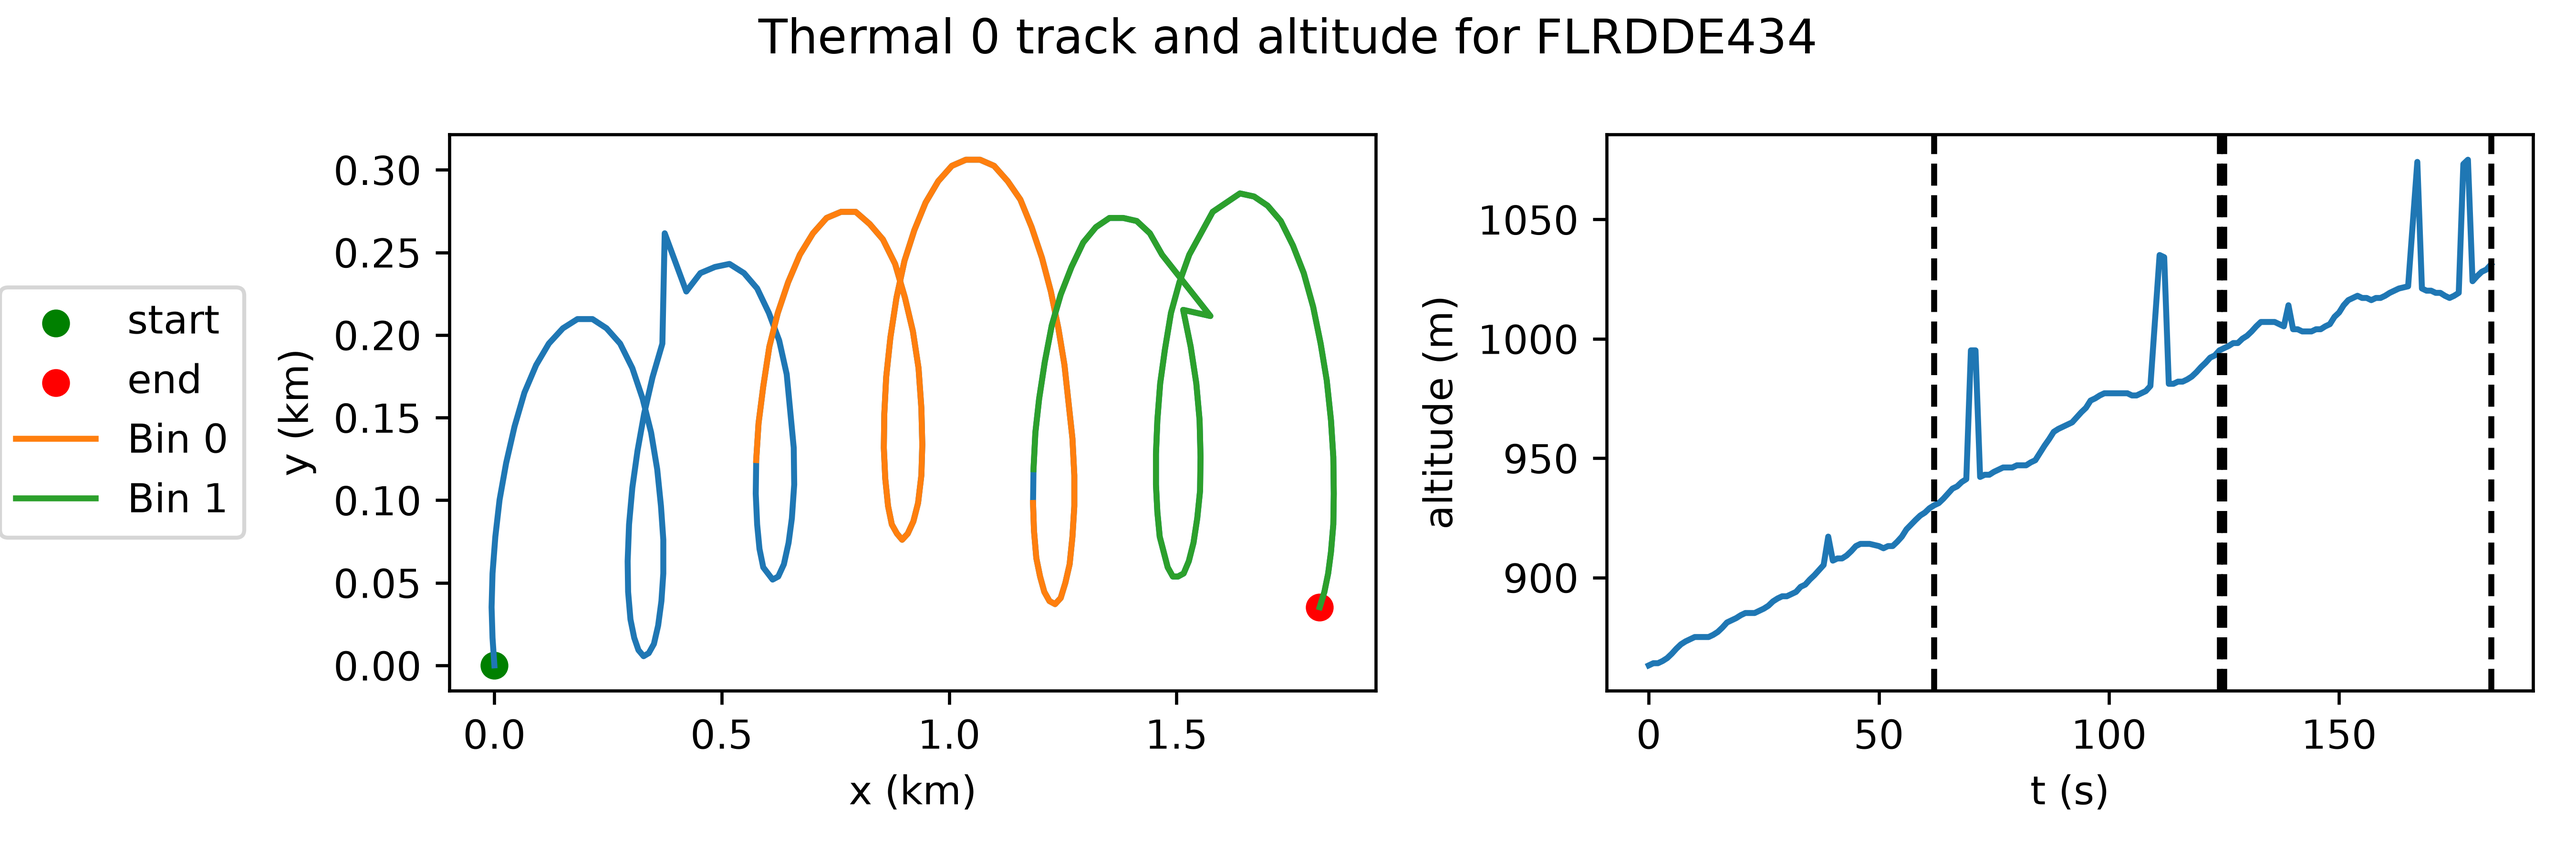
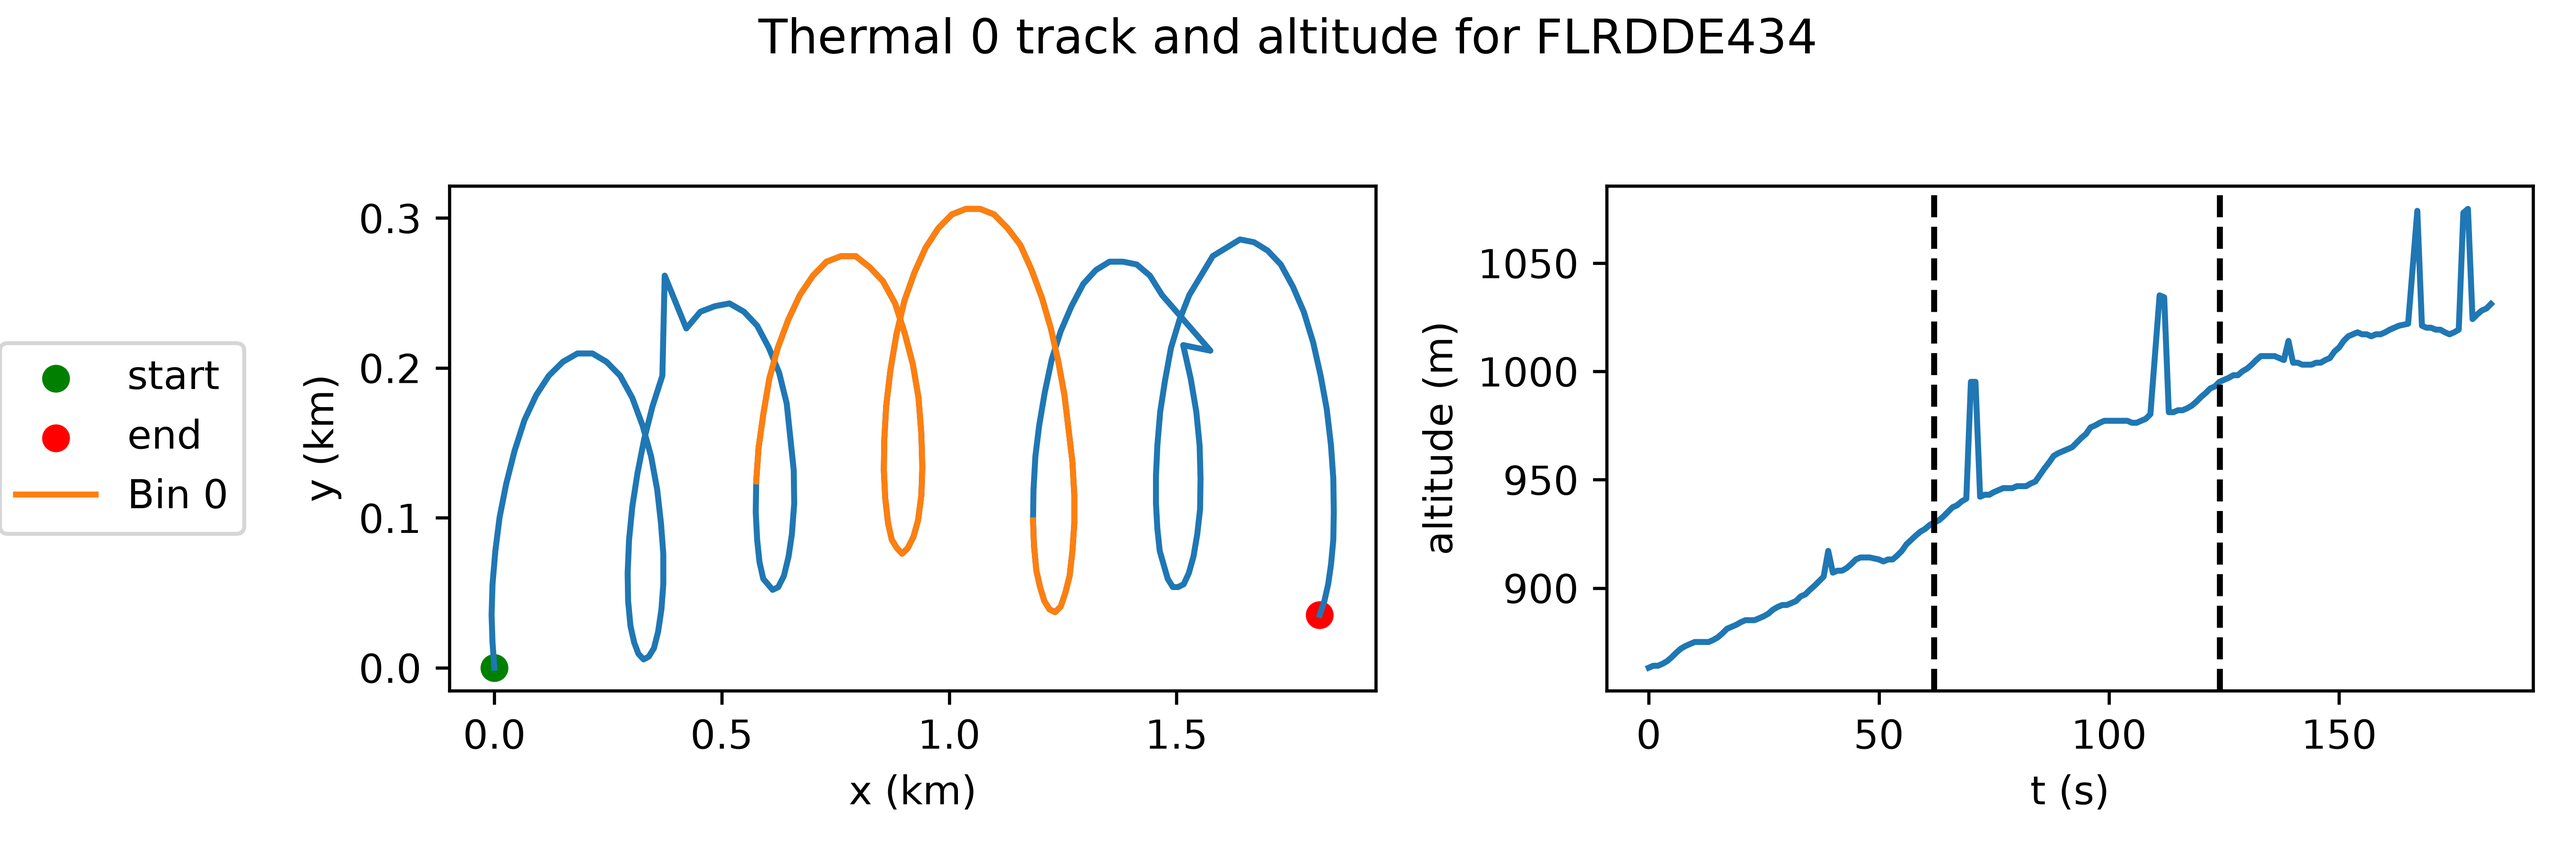
Optional plotting functions added to nonlinmdl

diff --git a/Jupyter/glider_analysis_me.py b/Jupyter/glider_analysis_me.py
@@ -654,10 +654,10 @@ def bin2(t_data, nz_data, sbin, P, Ptrim):
     t_data_trim = t_data[trim_idx:] - t_data[trim_idx]   # trim the data down and normalize time to start at 0 for better numerical stability
     nz_data_trim = nz_data[trim_idx:]
 
-    nbin = int((t_data[-1]-t_data[0])/(nP*P)) # how many full bins can be made based on the number of periods in the thermal soaring data window. Each bin will contain np=2 full periods of circling.
-    print(f"nbins: {nbin}")
+    # nbin = int((t_data[-1]-t_data[0])/(nP*P)) 
     # should nbins be based on t_data_trim rather than t_data ? Yes.
-    # e.g. nbin = int((t_data_trim[-1]-t_data_trim[0]/(nP*P)))
+    nbin = int((t_data_trim[-1]-t_data_trim[0])/(nP*P)) # how many full bins can be made based on the number of periods in the thermal soaring data window. Each bin will contain np=2 full periods of circling.
+    print(f"nbins: {nbin}")
     bidx = []
 
     prevedege = trim_idx # the start index for the first bin will be the first index after the trim.
@@ -750,6 +750,10 @@ def omega_guess(t_data, x_data, y_data, plot=True):
     
     print(f"omega0: {omega0}")
     return omega0
+
+'''
+Plotting helper function to be used in omega_guess - optional.
+'''
 
 def plot_omega_guess_diagnostics(tn, x_res_lin, y_res_lin, bn, T, p_bn, omega0, u0, v0):
     # Optional plots for reviewing:
@@ -872,7 +876,7 @@ def cov_est(t, result):
     return out
 
 
-def nonlinmdl(fid, t_data, x_data, y_data, z_data, lat, lon, bidx, nbin, wins, ntherm, results, nax, globP):
+def nonlinmdl(fid, t_data, x_data, y_data, z_data, lat, lon, bidx, nbin, wins, ntherm, results, nax, globP, plot=True):
     '''
     Executes non-linear (circling model) fitting procedure for each bin of a given thermalling window.
     Parameters such as angular rate, turn radius, phase, linear drift, and initial positions are extracted: 
@@ -902,9 +906,10 @@ def nonlinmdl(fid, t_data, x_data, y_data, z_data, lat, lon, bidx, nbin, wins, n
     rtype: pandas.DataFrame
     '''
 
-    # define a figure in which the fits for each bin will be plotted on their own subplot
-    fig = plt.figure(figsize=(4*nax[0], 3*nax[1]))
-    fig2 = plt.figure(figsize=(4*nax[0], 3*nax[1]))
+    if plot:
+        # define a figure in which the fits for each bin will be plotted on their own subplot
+        fig = plt.figure(figsize=(4*nax[0], 3*nax[1]))
+        fig2 = plt.figure(figsize=(4*nax[0], 3*nax[1]))
 
     fidarr = fid                        # flight ID for the current thermalling window
     refts = np.empty(nbin)              # reference timestamp for each bin, calculated as the midpoint of the time range for that bin
@@ -1079,7 +1084,7 @@ def nonlinmdl(fid, t_data, x_data, y_data, z_data, lat, lon, bidx, nbin, wins, n
         yevalplt = y_model(teval, omegaest[i], Ryest[i], phiyest[i], vest[i], y0est[i]) + ybin.mean() # for plotting smooth function
 
         xeval = x_model(t_centred, omegaest[i], Rxest[i], phixest[i], uest[i], x0est[i]) + xbin.mean()
-        xres = xbin - xeval # residuals between x values and x (cosine) model data
+        xres = xbin - xeval # residuals between x values and x (cosine + linear drift) model data
         yeval = y_model(t_centred, omegaest[i], Ryest[i], phiyest[i], vest[i], y0est[i]) + ybin.mean()
         yres = ybin - yeval
 
@@ -1131,93 +1136,43 @@ def nonlinmdl(fid, t_data, x_data, y_data, z_data, lat, lon, bidx, nbin, wins, n
         print(f"wind speed: |U|={magU[i]:.3f} +- {stdmagU[i]:.3f} m/s, bearing: b={bUdeg[i]:.3f} +- {dbUdeg[i]:.3f} deg")
         print(f"height ascended through, dz={dz_bin:.1f} m")
 
-        # Plot the results for visual inspection. Each bin will have its own subplot in a larger figure, with the fit and residuals plotted below each other.
 
-        # Subplots on fig for x component fit for each bin
-        ax = fig.add_subplot(2*nax[1], nax[0], 2*i+1)   # double the columns in order to have space for residuals plot alongside each fit  
-        ax.plot(tbin, xbin, linestyle = '', marker = '.', markersize=4)
-        # adding tbin.mean() back onto teval to display curve against the original data
-        ax.plot(teval + tbin.mean(), xevalplt, linestyle = '-', color = 'k', alpha = 0.5, label = f"Bin {ntherm}-{i+1} x fit")
+        # Optional debug/inspection plotting
+        if plot:
+            # Plot the results for visual inspection.
+            # Each bin will have its own subplot in a larger figure, with the fit and residuals plotted below each other.
+            bin_coords = {"tbin": tbin, "xbin": xbin, "ybin": ybin,
+                "teval": teval, "xevalplt": xevalplt, "yevalplt": yevalplt,
+                "xres": xres, "yres": yres,
+            }
+            print(f"NAX: {nax}")
+            plot_nonlin_bin_fit(nax, fig, fig2, ntherm, i, bin_coords)
 
-        ax.set_xlabel("t, s")
-        ax.set_ylabel("x, m")
-        ax.legend()
-
-        # Subplots on fig for x component residuals for each bin
-        ax2 = fig.add_subplot(2*nax[1], nax[0], 2*i+2)   # double the columns in order to have space for residuals plot alongside each fit  
-        # remember, xres = xbin - xeval
-        # len(tbin) == len(t_centred) however, len(tbin) != len(teval)
-        ax2.plot(tbin, xres, linestyle = '', marker = '.', markersize=4, label = f"Bin {ntherm}-{i+1} x residuals")
-        ax2.set_xlabel("t, s")
-        ax2.set_ylabel("x residual, m")
-        ax2.legend()
-
-        # Subplots on fig2 for y component fit for each bin
-        ax3 = fig2.add_subplot(2*nax[1], nax[0], 2*i+1)   # double the rows in order to have space for residuals plot below each fit  
-        ax3.plot(tbin, ybin, linestyle = '', marker = '.', markersize=4)
-        ax3.plot(teval + tbin.mean(), yevalplt, linestyle = '-', color = 'k', alpha = 0.5, label = f"Bin {ntherm}-{i+1} y fit")
-
-        ax3.set_xlabel("t, s")
-        ax3.set_ylabel("y, m")
-        ax3.legend()
-
-        # Subplots on fig2 for y component residuals for each bin
-        ax4 = fig2.add_subplot(2*nax[1], nax[0], 2*i+2)   # double the rows in order to have space for residuals plot below each fit  
-        ax4.plot(tbin, yres, linestyle = '', marker = '.', markersize=4, label = f"Bin {ntherm}-{i+1} y residuals")
-        ax4.set_xlabel("t, s")
-        ax4.set_ylabel("y residual, m")
-        ax4.legend()
 
         i += 1
 # ------------ for loop iterating over bins ends here ---------------
 
-    # Clean up figures and add titles, then save them to the output directory
-    fig.suptitle(f"Non-linear fit of x for {fid}; thermal {ntherm}")
-    fig2.suptitle(f"Non-linear fit of y for {fid}; thermal {ntherm}")
+    if plot:
+        # Clean up figures and add titles, then save them to the output directory
+        fig.suptitle(f"Non-linear fit of x for {fid}; thermal {ntherm}")
+        fig2.suptitle(f"Non-linear fit of y for {fid}; thermal {ntherm}")
 
-    fig.tight_layout()
-    fig2.tight_layout()
+        fig.tight_layout(rect=[0, 0, 1, 0.96])
+        fig2.tight_layout(rect=[0, 0, 1, 0.96])
 
-    # Save figs out to the output directory
-    fig.savefig(f"{outdir}/nonlinfitx_thermal_{ntherm}_fid_{fid}.png", dpi=300)
-    fig2.savefig(f"{outdir}/nonlinfity_thermal_{ntherm}_fid_{fid}.png", dpi=300)
-
-    # Create a third figure, fig3, to show the track of the thermal in the x-y plane, with the bins highlighted, and the altitude profile over time. 
-
-    fig3 = plt.figure(figsize=(9,3))
-
-    ax5 = fig3.add_subplot(121)
-    ax5.plot((x_data-x_data[0])/1e3, (y_data-y_data[0])/1e3)
-    ax5.scatter(0, 0, label = 'start', color = 'green')
-    ax5.scatter((x_data[-1]-x_data[0])/1e3, (y_data[-1]-y_data[0])/1e3, label = 'end', color = 'red')
-
-    binnum = 0
-    for s, e in bidx:
-        ax5.plot((x_data[s:e]-x_data[0])/1e3, (y_data[s:e]-y_data[0])/1e3, label = f"Bin {binnum}")
-        binnum += 1
-
-    ax5.set_xlabel("x (km)")
-    ax5.set_ylabel("y (km)")
-    # ax.set_zlabel("z (m)")
-    ax5.legend(loc="center right", bbox_to_anchor=(-0.20, 0.5))
-
-    ax6 = fig3.add_subplot(122)
-    ax6.plot(t_data-t_data[0], z_data)
-    for s, e in bidx:
-        ax6.axvline(x=(t_data[s]-t_data[0]), color='k', linestyle='--')
-        ax6.axvline(x=(t_data[e-1]-t_data[0]), color='k', linestyle='--')
-    # ax6.legend(loc="center left", bbox_to_anchor=(-0.5, 0.5))
+        # Save figs out to the output directory
+        fig.savefig(f"{outdir}/nonlinfitx_thermal_{ntherm}_fid_{fid}.png", dpi=300)
+        fig2.savefig(f"{outdir}/nonlinfity_thermal_{ntherm}_fid_{fid}.png", dpi=300)
 
 
-    fig3.subplots_adjust(left=0.3)  # make room for the legend
-    plt.xlabel("t (s)")
-    plt.ylabel("altitude (m)")
+    # Optional debug/inspection plotting
+    if plot:
+        # # Create a third figure, fig3, to show the track of the thermal in the x-y plane, with the bins highlighted, and the altitude profile over time. 
+        fig3 = plt.figure(figsize=(9,3))
 
-    plt.suptitle(f"Thermal {ntherm} track and altitude for {fid}")
-    plt.tight_layout()  
-    plt.show()
+        plot_nonlin_track_summary(fig3, fid, ntherm, bidx, t_data, x_data, y_data, z_data)
 
-    fig3.savefig(f"{outdir}/track_thermal_{ntherm}_fid_{fid}.png", dpi=600)
+        fig3.savefig(f"{outdir}/track_thermal_{ntherm}_fid_{fid}.png", dpi=600)
 
     # add back the window start index offset to retrieve indices in original data
     # this tells us the indices of the original data (with all thermal windows) that correspond to each bin.
@@ -1229,6 +1184,98 @@ def nonlinmdl(fid, t_data, x_data, y_data, z_data, lat, lon, bidx, nbin, wins, n
 
     return results
 
+
+def plot_nonlin_bin_fit(nax, fig, fig2, ntherm, i, bin_result):
+    '''
+    fig, fig2: nspection plots for each of the thermal bins created from each thermal window.
+    Plotting the x-fit and y-fit vs time and the x (x data - x model) and y residuals vs time.
+    '''
+
+    tbin = bin_result["tbin"]
+    xbin = bin_result["xbin"]
+    ybin = bin_result["ybin"]
+    teval = bin_result["teval"]
+    xevalplt = bin_result["xevalplt"]
+    yevalplt = bin_result["yevalplt"]
+    xres = bin_result["xres"]
+    yres = bin_result["yres"]
+
+    # Subplots on fig for x component fit for each bin
+    # ax = fig.add_subplot(2*nax[1], nax[0], 2*i+1)   # double the columns in order to have space for residuals plot alongside each fit  
+    ax = fig.add_subplot(nax[1], nax[0], 2*i+1)
+    ax.plot(tbin, xbin, linestyle = '', marker = '.', markersize=4)
+    # adding tbin.mean() back onto teval to display curve against the original data
+    ax.plot(teval + tbin.mean(), xevalplt, linestyle = '-', color = 'k', alpha = 0.5, label = f"Bin {ntherm}-{i+1} x fit")
+
+    ax.set_xlabel("t, s")
+    ax.set_ylabel("x, m")
+    ax.legend()
+
+    # Subplots on fig for x component residuals for each bin
+    # ax2 = fig.add_subplot(2*nax[1], nax[0], 2*i+2)   # double the columns in order to have space for residuals plot alongside each fit 
+    ax2 = fig.add_subplot(nax[1], nax[0], 2*i+2) 
+    # remember, xres = xbin - xeval
+    # len(tbin) == len(t_centred) however, len(tbin) != len(teval)
+    ax2.plot(tbin, xres, linestyle = '', marker = '.', markersize=4, label = f"Bin {ntherm}-{i+1} x residuals")
+    ax2.set_xlabel("t, s")
+    ax2.set_ylabel("x residual, m")
+    ax2.legend()
+
+    # Subplots on fig2 for y component fit for each bin
+    ax3 = fig2.add_subplot(nax[1], nax[0], 2*i+1)   # double the rows in order to have space for residuals plot below each fit  
+    ax3.plot(tbin, ybin, linestyle = '', marker = '.', markersize=4)
+    ax3.plot(teval + tbin.mean(), yevalplt, linestyle = '-', color = 'k', alpha = 0.5, label = f"Bin {ntherm}-{i+1} y fit")
+
+    ax3.set_xlabel("t, s")
+    ax3.set_ylabel("y, m")
+    ax3.legend()
+
+    # Subplots on fig2 for y component residuals for each bin
+    ax4 = fig2.add_subplot(nax[1], nax[0], 2*i+2)   # double the rows in order to have space for residuals plot below each fit  
+    ax4.plot(tbin, yres, linestyle = '', marker = '.', markersize=4, label = f"Bin {ntherm}-{i+1} y residuals")
+    ax4.set_xlabel("t, s")
+    ax4.set_ylabel("y residual, m")
+    ax4.legend()
+
+
+def plot_nonlin_track_summary(fig, fid, ntherm, bidx, t, x, y, z):
+    '''
+    fig3: Inspection plots for each of the thermal bins created from each thermal window.
+    Plotting the x vs y tracks and alitude vs t tracks for each of the bins in each thermal window.
+    '''
+    # fig = plt.figure(figsize=(9,3))
+        
+    ax5 = fig.add_subplot(121)
+    ax5.plot((x-x[0])/1e3, (y-y[0])/1e3)
+    ax5.scatter(0, 0, label = 'start', color = 'green')
+    ax5.scatter((x[-1]-x[0])/1e3, (y[-1]-y[0])/1e3, label = 'end', color = 'red')
+
+    binnum = 0
+    for s, e in bidx:
+        ax5.plot((x[s:e]-x[0])/1e3, (y[s:e]-y[0])/1e3, label = f"Bin {binnum}")
+        binnum += 1
+
+    ax5.set_xlabel("x (km)")
+    ax5.set_ylabel("y (km)")
+    # ax.set_zlabel("z (m)")
+    ax5.legend(loc="center right", bbox_to_anchor=(-0.20, 0.5))
+
+    ax6 = fig.add_subplot(122)
+    ax6.plot(t-t[0], z)
+    for s, e in bidx:
+        ax6.axvline(x=(t[s]-t[0]), color='k', linestyle='--')
+        ax6.axvline(x=(t[e-1]-t[0]), color='k', linestyle='--')
+    # ax6.legend(loc="center left", bbox_to_anchor=(-0.5, 0.5))
+
+    fig.subplots_adjust(left=0.3)  # make room for the legend
+    plt.xlabel("t (s)")
+    plt.ylabel("altitude (m)")
+
+    fig.suptitle(f"Thermal {ntherm} track and altitude for {fid}")
+    fig.tight_layout(rect=[0, 0, 1, 0.94])
+    plt.show()
+
+    # fig.savefig(f"{outdir}/track_thermal_{ntherm}_fid_{fid}.png", dpi=600)
 
 # # 7. Plot u and v components of wind estimates
 
@@ -1396,7 +1443,7 @@ def main():
 
             # Estimate global period for the current thermalling window using the omega_guess function, which analyzes the time series data to provide an initial estimate of the angular rate of rotation (omega). 
             # This is used to determine the period of oscillation for binning and fitting purposes.
-            globomega0 = omega_guess(t_data, x_data, y_data)
+            globomega0 = omega_guess(t_data, x_data, y_data, plot=False)
             globP = 2*np.pi/abs(globomega0)
             if globP > 1.5*30 or globP < 0.5*30:
                 globP = 30
@@ -1422,14 +1469,15 @@ def main():
             # Track how many bins have been processed across all thermalling windows.
             globnbin = globnbin + nbin
 
-            # Create variables to store the number of rows and columns needed for the subplots, based on how many bins are to be processed.
+            # Create variables to store the number of rows and columns needed for the subplots.
+            # Each bin gets its own row, with fit and residual side by side.
             nax = np.empty(2, dtype=int)
-            nax[0] = 2  # number of columns for subplots (fixed at 2 for fit and residuals)
-            nax[1]= -(nbin // -nax[0])  # cell division to determine number of rows needed for subplots
+            nax[0] = 2  # number of columns for subplots (fit and residual)
+            nax[1] = nbin  # one row per bin
 
             # Execute the non-linear fitting routine. Each bin is processed in turn within this function, and results are stored in the results_nln dataframe. 
             # The function also generates plots for each bin showing the fit and residuals, and saves them to the output directory.
-            results_nln = nonlinmdl(fid, t_data, x_data, y_data, z_data, lat, lon, bidx, nbin, wins, ntherm, results_nln, nax, globP)
+            results_nln = nonlinmdl(fid, t_data, x_data, y_data, z_data, lat, lon, bidx, nbin, wins, ntherm, results_nln, nax, globP, plot=False)
 
         ntherm += 1
 
